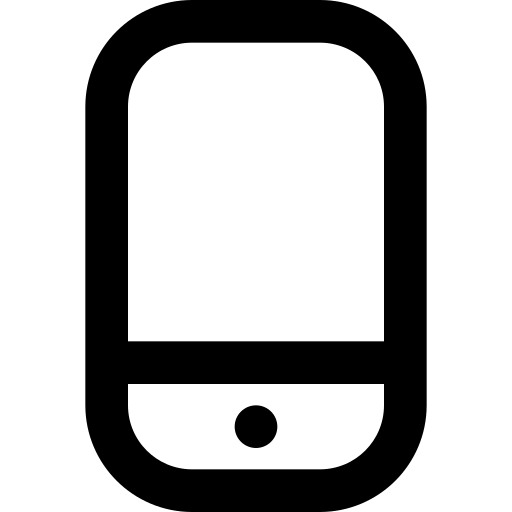
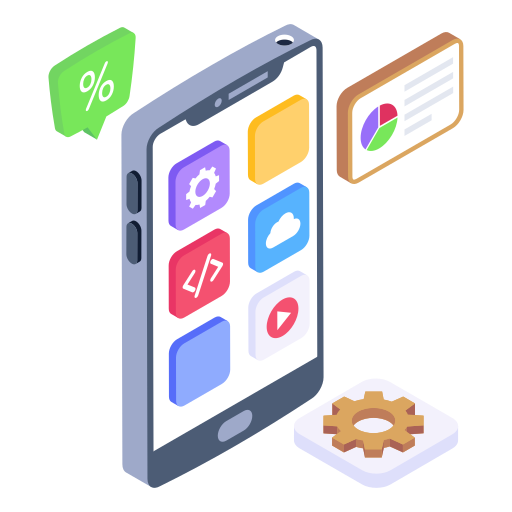
Hero 3 completed

diff --git a/robin-app-as/src/components/dashboardH3.tsx b/robin-app-as/src/components/dashboardH3.tsx
@@ -1,0 +1,34 @@
+import AboutUsCard from "./aboutUsCard";
+
+export default function DashboardH3() {
+  return (
+    <div className="flex flex-col gap-20 w-full items-center justify-center">
+      <div className="flex justify-between w-[90%] bg-gray-900 p-8 rounded-lg gap-10">
+        <div className="flex-1">
+          <img
+            src="/developerTeam.avif"
+            alt="Dashboard Image"
+            className="rounded-lg h-90 w-auto"
+          />
+        </div>
+        <div className="flex-1 flex flex-col gap-4">
+          <div className="mt-4">
+            <a className="text-[#42a9b8]" href="#">
+              About Us →
+            </a>
+          </div>
+          <h1 className="text-5xl">
+            We are your trusted <br /> IT partners
+          </h1>
+          <p className="mt-4 text-gray-400">
+            We are a team of passionate developers, designers, and strategists
+            who love turning ideas into powerful digital solutions. We focus on
+            quality, innovation, and long-term parterships to help businesses
+            succeed in the digital world.
+          </p>
+          <AboutUsCard />
+        </div>
+      </div>
+    </div>
+  );
+}

diff --git a/robin-app-as/src/components/aboutUsInnerCard.tsx b/robin-app-as/src/components/aboutUsInnerCard.tsx
@@ -1,0 +1,27 @@
+type AboutUsInnerCardProps = {
+  number: number;
+  icon: string;
+  text: string;
+};
+
+export default function AboutUsInnerCard({
+  number,
+  icon,
+  text,
+}: AboutUsInnerCardProps) {
+  return (
+    <div className="flex flex-row gap-4">
+      <div>
+        <img src={icon} alt="About Us Icon" className="h-10 w-auto" />
+      </div>
+      <div className="flex flex-col">
+        <div>
+          <h1 className="text-3xl font-bold">{number}+</h1>
+        </div>
+        <div>
+          <p className="text-gray-400">{text}</p>
+        </div>
+      </div>
+    </div>
+  );
+}

diff --git a/robin-app-as/src/components/dashboardH2.tsx b/robin-app-as/src/components/dashboardH2.tsx
@@ -3,15 +3,15 @@ import ServiceCard from "./serviceCard";
 export default function DashboardH2() {
   return (
     <div className="flex flex-col gap-20 w-full items-center justify-center">
-      <div className="w-5/6 bg-gray-900 p-8 rounded-lg">
+      <div className="w-9/10 bg-gray-900 p-8 rounded-lg">
         <div className="flex justify-between mt-4">
           <div className="flex flex-col gap-4 w-200">
             <h1 className="text-5xl font-bold">Our Services</h1>
           </div>
-          <div className="flex flex-col gap-4 w-200">
+          <div className="flex flex-col gap-4 w-200 text-gray-400">
             <p>
-              We offer a wide range of IT solutions to help businesses innovate,
-              scale and stay ahead.
+              We offer a wide range of IT solutions to help <br /> businesses
+              innovate, scale and stay ahead.
             </p>
           </div>
         </div>
@@ -20,21 +20,25 @@ export default function DashboardH2() {
             title="Web Development"
             icon="/webDevelopment.png"
             text="Custom web sites and web applications built with the latest technologies."
+            link="/servicePage"
           />
           <ServiceCard
             title="Mobile App Development"
             icon="/mobileDevelopment.png"
             text="Native and cross-platform mobile applications that deliver great user experiences."
+            link="/servicePage"
           />
           <ServiceCard
-            title="Accounting System Development"
-            icon="accountingSystemDevelopment.png"
+            title="Accounting System"
+            icon="/accountingSystem.webp"
             text="Custom accounting systems built to meet your business needs."
+            link="/servicePage"
           />
           <ServiceCard
             title="IT Consulting"
-            icon="itConsulting.png"
+            icon="/itConsulting.png"
             text="Strategic IT guidance to help your business thrive."
+            link="/servicePage"
           />
         </div>
       </div>

diff --git a/robin-app-as/src/components/aboutUsCard.tsx b/robin-app-as/src/components/aboutUsCard.tsx
@@ -1,0 +1,16 @@
+import { ACTION_BUILDING_INDICATOR_HIDE } from "next/dist/next-devtools/dev-overlay/shared";
+import AboutUsInnerCard from "./aboutUsInnerCard";
+
+export default function AboutUsCard() {
+  return (
+    <div className="flex flex-row gap-10 w-full items-center justify-center">
+      <AboutUsInnerCard number={10} icon="/userIcon.png" text="Happy Clients" />
+      <AboutUsInnerCard
+        number={50}
+        icon="/userIcon.png"
+        text="Projects Completed"
+      />
+      <AboutUsInnerCard number={100} icon="/userIcon.png" text="Team Members" />
+    </div>
+  );
+}

diff --git a/robin-app-as/src/components/serviceCard.tsx b/robin-app-as/src/components/serviceCard.tsx
@@ -2,9 +2,15 @@ type ServiceCardProps = {
   title: string;
   icon: string;
   text: string;
+  link: string;
 };
 
-export default function ServiceCard({ title, icon, text }: ServiceCardProps) {
+export default function ServiceCard({
+  title,
+  icon,
+  text,
+  link,
+}: ServiceCardProps) {
   return (
     <div className="flex mt-6 flex-col bg-gray-900 p-8 rounded-lg border border-gray-600 gap-6">
       <div>
@@ -13,13 +19,13 @@ export default function ServiceCard({ title, icon, text }: ServiceCardProps) {
       <div>
         <h1 className="text-xl font-bold">{title}</h1>
       </div>
-      <div>
+      <div className="flex flex-grow text-gray-400">
         <p>{text}</p>
       </div>
-      <div>
-        <button className="bg-[#42a9b8] text-white px-5 py-3 rounded-lg w-50">
+      <div className="my-4">
+        <a className="text-[#42a9b8]" href={link}>
           Learn More →
-        </button>
+        </a>
       </div>
     </div>
   );

diff --git a/robin-app-as/src/app/dashboard/page.tsx b/robin-app-as/src/app/dashboard/page.tsx
@@ -1,14 +1,18 @@
 import DashboardH1 from "@/components/dashboardH1";
 import DashboardH2 from "@/components/dashboardH2";
+import DashboardH3 from "@/components/dashboardH3";
 
 export default function Dashboard() {
   return (
-    <div className="flex flex-col">
+    <div className="flex flex-col gap-4">
       <section>
         <DashboardH1 />
       </section>
       <section>
         <DashboardH2 />
+      </section>
+      <section>
+        <DashboardH3 />
       </section>
     </div>
   );

diff --git a/robin-app-as/src/components/NavBar.tsx b/robin-app-as/src/components/NavBar.tsx
@@ -14,7 +14,7 @@ export default function NavBar() {
   ];
 
   return (
-    <div className="flex justify-between items-center w-full px-40 mb-20">
+    <div className="flex justify-between items-center w-full px-20 mb-20">
       <div className="flex items-center h-20 mt-4">
         <img src="/robinLogo.png" alt="Robin App AS Logo" className="h-16" />
       </div>

diff --git a/robin-app-as/src/components/dashboardH1.tsx b/robin-app-as/src/components/dashboardH1.tsx
@@ -1,6 +1,6 @@
 export default function DashboardH1() {
   return (
-    <div className="flex justify-between mt-4 w-full px-40">
+    <div className="flex justify-between mt-4 w-full px-20">
       <div className="flex flex-col gap-4 w-200">
         <h1 className="text-7xl font-bold">
           Build your idea into a <span className="text-[#42a9b8]">product</span>